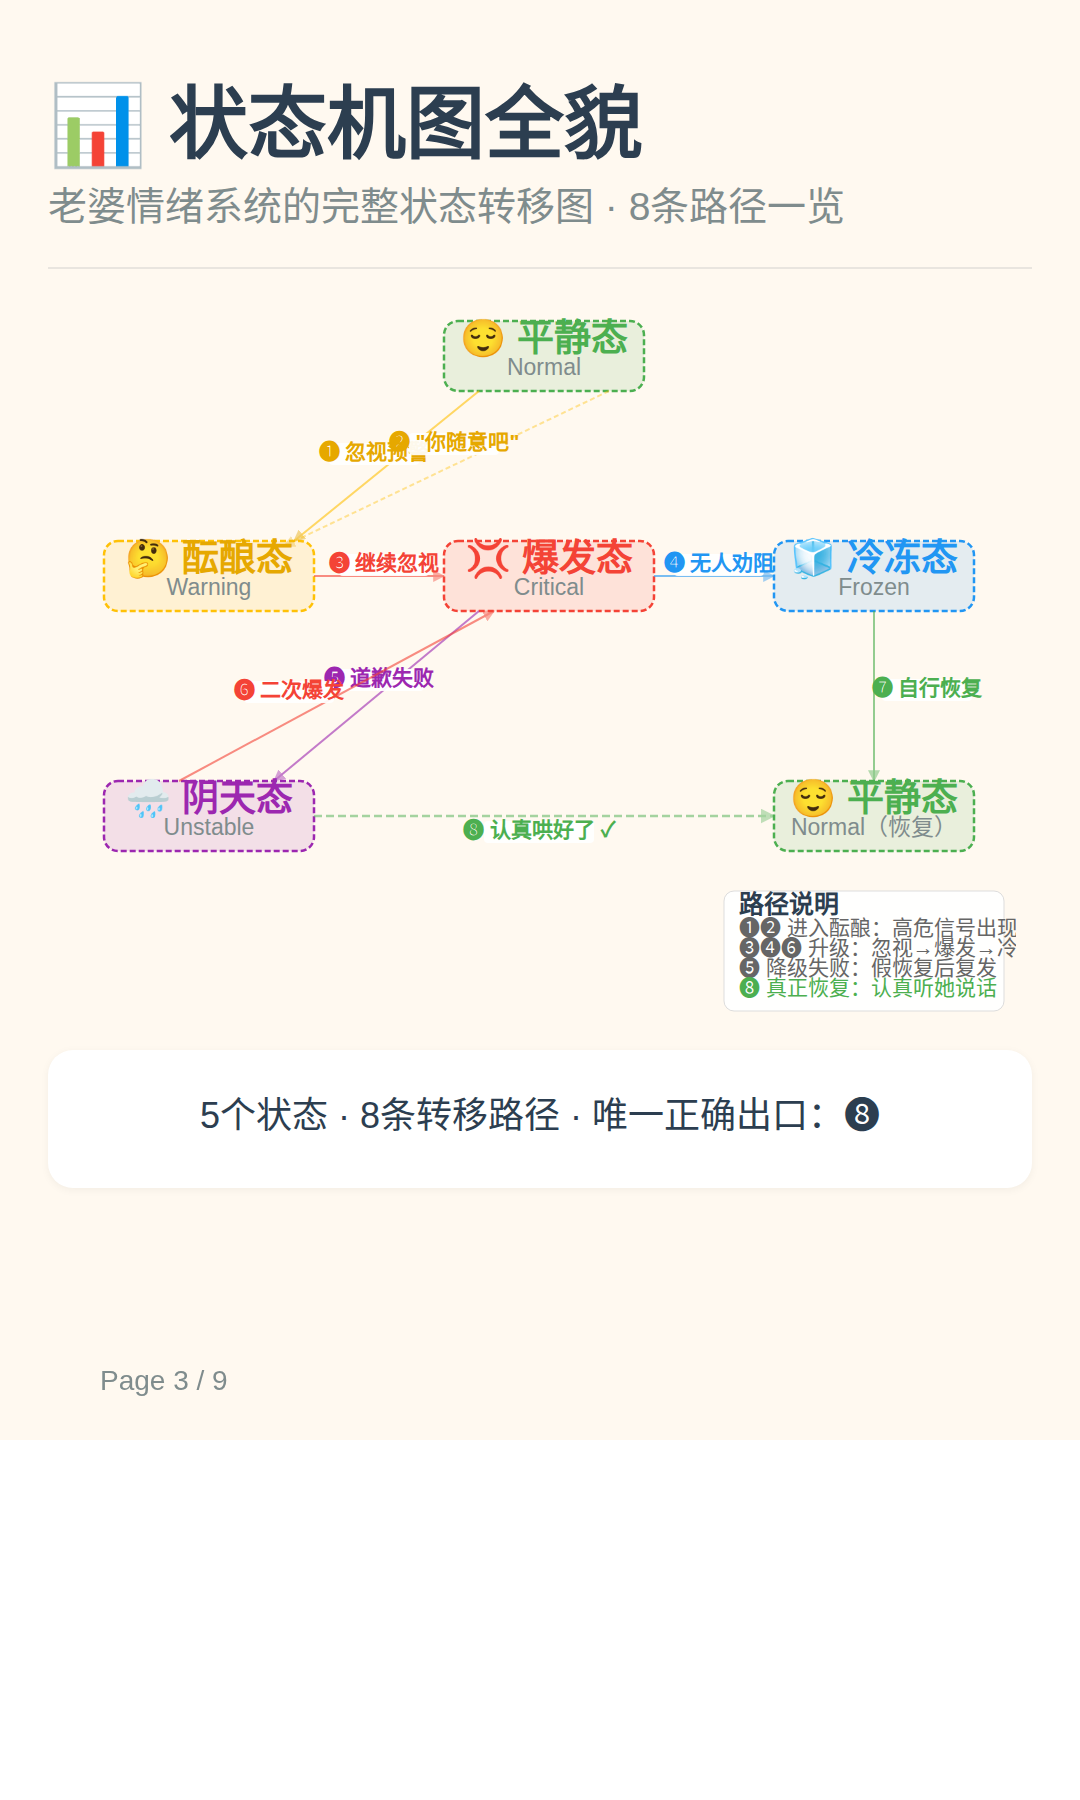
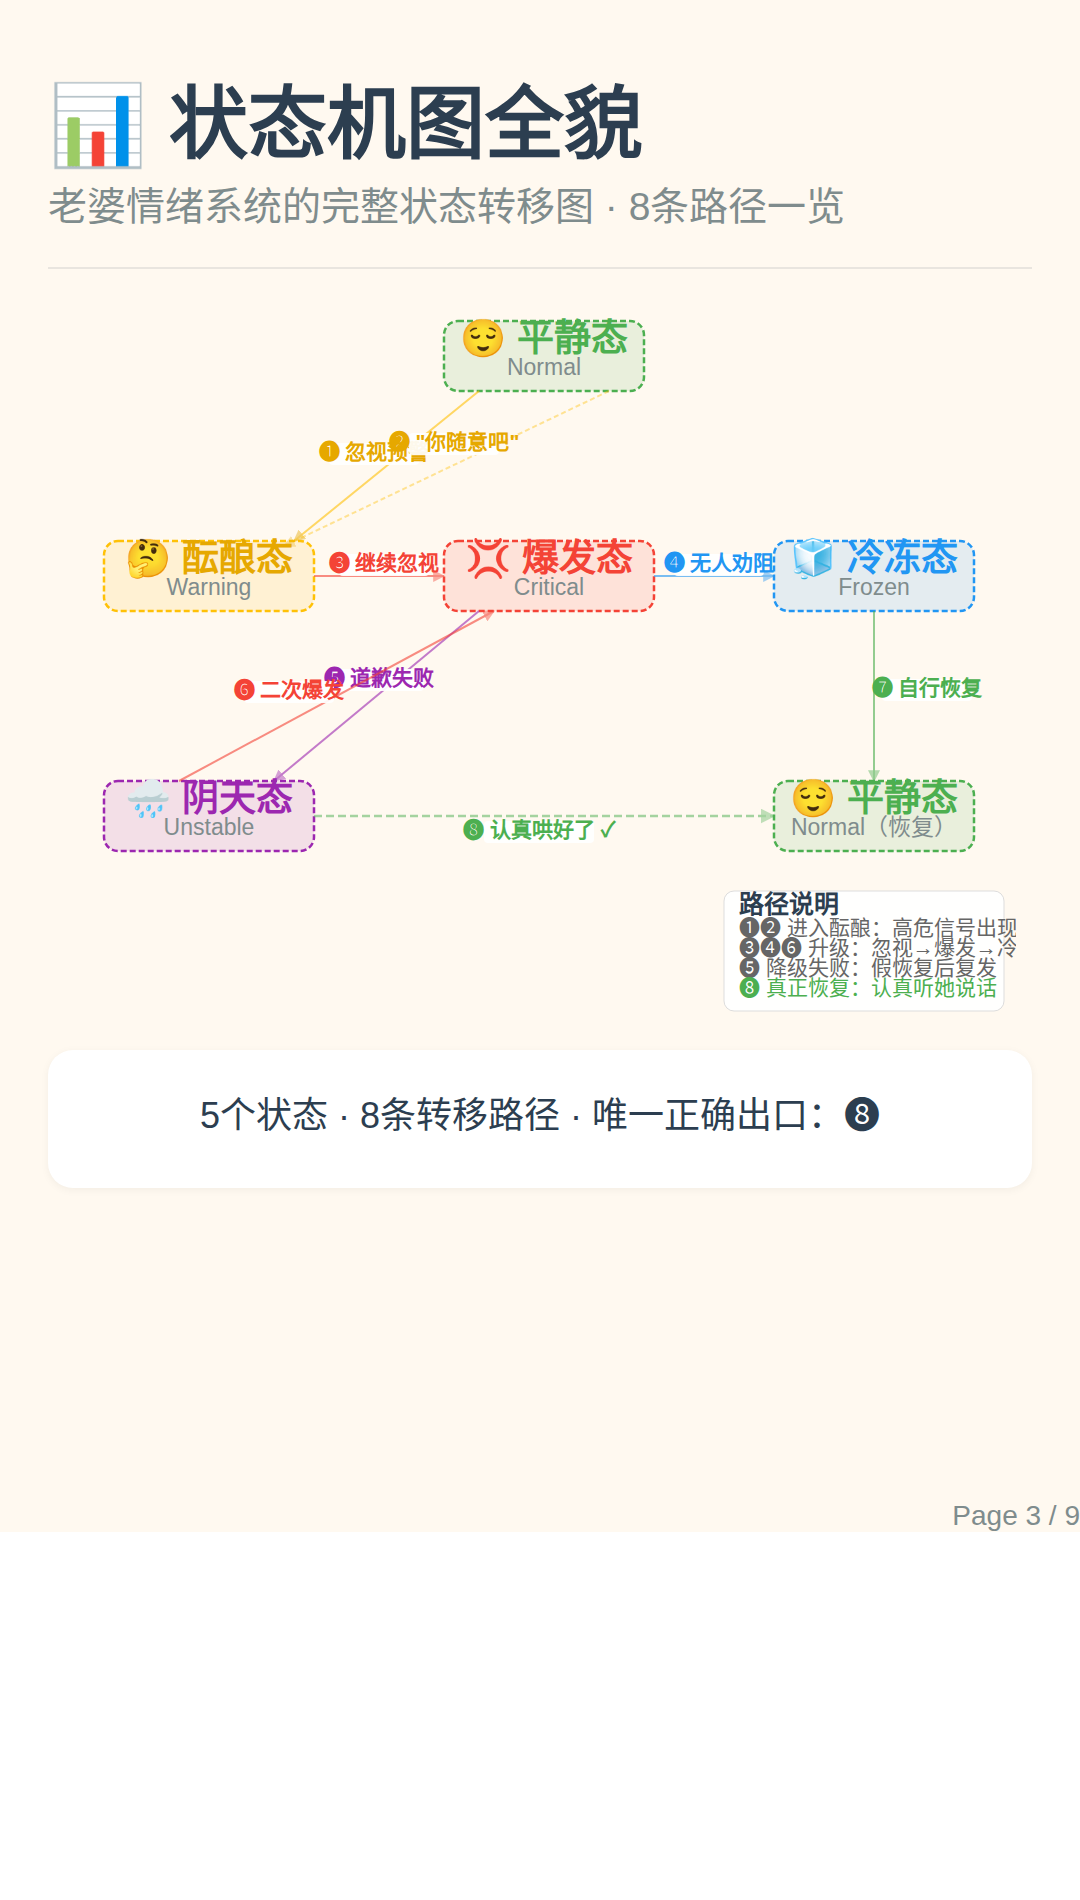
fix: 页码改为静态定位避免重叠，统一高度1900px

diff --git a/wife-anger-cycle/slide-01.html b/wife-anger-cycle/slide-01.html
@@ -8,7 +8,7 @@ h2{font-size:38px;font-weight:700;margin-bottom:16px}
 .txt{font-size:24px;line-height:1.9}
 .sm{font-size:36px;color:#7F8C8D}
 .card{background:#fff;border-radius:16px;padding:28px 32px;margin:20px 0;box-shadow:0 2px 10px rgba(0,0,0,.05)}
-.foot{position:fixed;bottom:57px;left:115px;font-size:32px;color:#7F8C8D}
+.foot{position:static;text-align:right;padding-top:60px;font-size:32px;color:#7F8C8D}
 svg text{font-family:'PingFang SC','Microsoft YaHei',sans-serif}
 </style></head><body>
 <div class="wrap" style="display:flex;flex-direction:column;align-items:center;justify-content:center;min-height:1440px;text-align:center">

diff --git a/wife-anger-cycle/slide-02.html b/wife-anger-cycle/slide-02.html
@@ -8,7 +8,7 @@ h2{font-size:68px;font-weight:700;margin-bottom:50px}
 .txt{font-size:43px;line-height:1.75}
 .sm{font-size:36px;color:#7F8C8D}
 .card{background:#fff;border-radius:28px;padding:50px 57px;margin:36px 0;box-shadow:0 2px 10px rgba(0,0,0,.05)}
-.foot{position:fixed;bottom:57px;left:115px;font-size:32px;color:#7F8C8D}
+.foot{position:static;text-align:right;padding-top:60px;font-size:32px;color:#7F8C8D}
 svg text{font-family:'PingFang SC','Microsoft YaHei',sans-serif}
 </style></head><body>
 <div class="wrap" style="min-height:1440px">

diff --git a/wife-anger-cycle/slide-03.html b/wife-anger-cycle/slide-03.html
@@ -8,7 +8,7 @@ h2{font-size:79px;font-weight:900}
 .txt{font-size:36px;line-height:1.65}
 .sm{font-size:30px;color:#7F8C8D}
 svg text{font-family:'PingFang SC','Microsoft YaHei',sans-serif}
-.foot{position:fixed;bottom:43px;left:100px;font-size:28px;color:#7F8C8D}
+.foot{position:static;text-align:right;padding-top:60px;font-size:28px;color:#7F8C8D}
 </style></head><body>
 <div class="wrap" style="min-height:1440px">
   <h2>📊 状态机图全貌</h2>

diff --git a/wife-anger-cycle/slide-04.html b/wife-anger-cycle/slide-04.html
@@ -10,7 +10,7 @@ h2{font-size:86px;font-weight:900}
 .highlight{color:#F44336;font-weight:bold}
 .green{color:#4CAF50;font-weight:bold}
 svg text{font-family:'PingFang SC','Microsoft YaHei',sans-serif}
-.foot{position:fixed;bottom:57px;left:115px;font-size:32px;color:#7F8C8D}
+.foot{position:static;text-align:right;padding-top:60px;font-size:32px;color:#7F8C8D}
 </style></head><body>
 <div class="wrap">
   <h2>第一章：暴风雨前的宁静</h2>

diff --git a/wife-anger-cycle/slide-05.html b/wife-anger-cycle/slide-05.html
@@ -10,7 +10,7 @@ h2{font-size:86px;font-weight:900}
 .highlight{color:#F44336;font-weight:bold}
 .green{color:#4CAF50;font-weight:bold}
 svg text{font-family:'PingFang SC','Microsoft YaHei',sans-serif}
-.foot{position:fixed;bottom:57px;left:115px;font-size:32px;color:#7F8C8D}
+.foot{position:static;text-align:right;padding-top:60px;font-size:32px;color:#7F8C8D}
 </style></head><body>
 <div class="wrap">
   <h2>第二章：你居然没发现？</h2>

diff --git a/wife-anger-cycle/slide-07.html b/wife-anger-cycle/slide-07.html
@@ -10,7 +10,7 @@ h2{font-size:86px;font-weight:900}
 .highlight{color:#F44336;font-weight:bold}
 .green{color:#4CAF50;font-weight:bold}
 svg text{font-family:'PingFang SC','Microsoft YaHei',sans-serif}
-.foot{position:fixed;bottom:57px;left:115px;font-size:32px;color:#7F8C8D}
+.foot{position:static;text-align:right;padding-top:60px;font-size:32px;color:#7F8C8D}
 </style></head><body>
 <div class="wrap">
   <h2>第四章：最危险的死循环</h2>

diff --git a/wife-anger-cycle/slide-08.html b/wife-anger-cycle/slide-08.html
@@ -10,7 +10,7 @@ h2{font-size:86px;font-weight:900}
 .highlight{color:#F44336;font-weight:bold}
 .green{color:#4CAF50;font-weight:bold}
 svg text{font-family:'PingFang SC','Microsoft YaHei',sans-serif}
-.foot{position:fixed;bottom:57px;left:115px;font-size:32px;color:#7F8C8D}
+.foot{position:static;text-align:right;padding-top:60px;font-size:32px;color:#7F8C8D}
 </style></head><body>
 <div class="wrap">
   <h2>终章：唯一的修复方案</h2>

diff --git a/wife-anger-cycle/slide-06.html b/wife-anger-cycle/slide-06.html
@@ -10,7 +10,7 @@ h2{font-size:86px;font-weight:900}
 .highlight{color:#F44336;font-weight:bold}
 .green{color:#4CAF50;font-weight:bold}
 svg text{font-family:'PingFang SC','Microsoft YaHei',sans-serif}
-.foot{position:fixed;bottom:57px;left:115px;font-size:32px;color:#7F8C8D}
+.foot{position:static;text-align:right;padding-top:60px;font-size:32px;color:#7F8C8D}
 </style></head><body>
 <div class="wrap">
   <h2>第三章：全面崩溃</h2>
